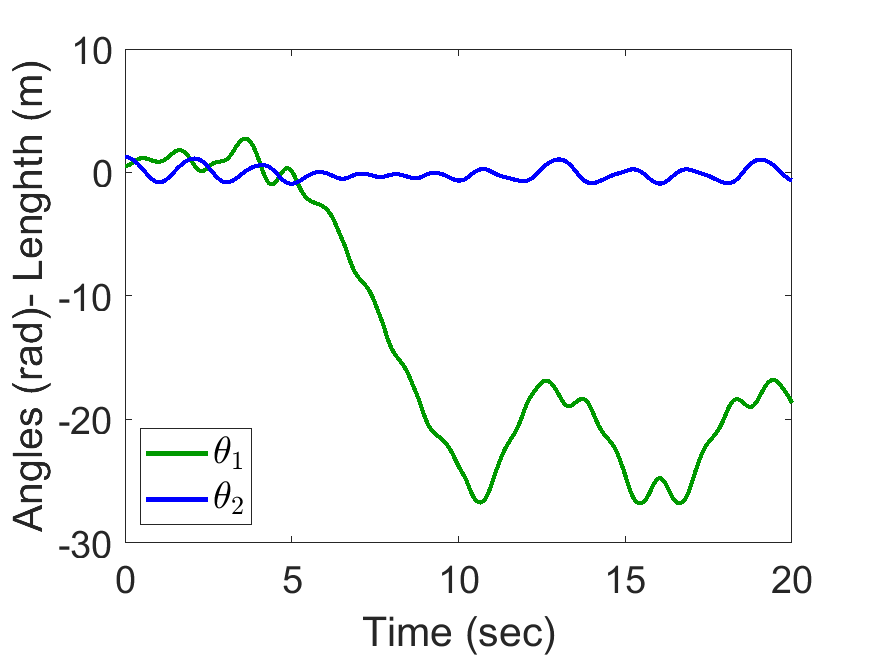
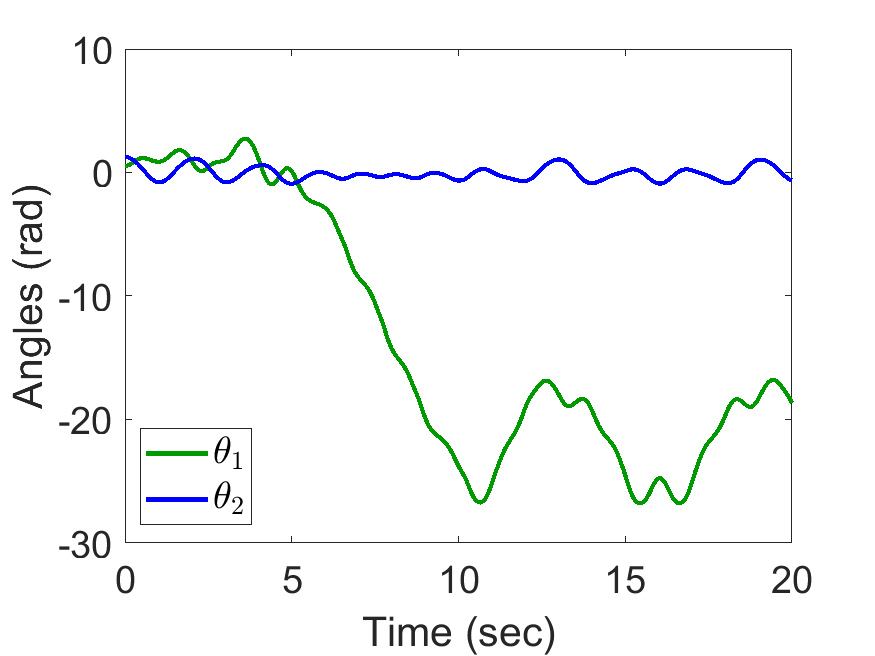
Example7 Added

Changed region(s): [[0.0, 0.0915, 0.0617, 0.5488], [0.0, 0.5793, 0.0617, 0.8232]]

diff --git a/Animator7.m b/Animator7.m
@@ -1,0 +1,121 @@
+function Animator7(Th, tt,Param)
+% Author: Mansour Torabi
+% Email: smtoraabi@ymail.com
+%%
+try
+    filename = 'Pic/Anim7.gif';
+    Hf = figure;
+    set(Hf,'color',[1 1 1]);
+    
+    th0 = Th(1,1); ths = Th(1,2); dx = Th(1,3);
+    R0 = Param(1); r0 = Param(2); l0 = Param(3);
+
+    RotFcn = @(X,th)[cos(th), -sin(th);  sin(th), cos(th)]*X;
+
+    %% Main Param
+
+    R = 3.5; r = r0*R/R0; l = l0*R/R0;
+    R_od = R-r;
+
+    xRo = 5; yRo = 7;
+
+    %% SemiCircle and Disc
+
+    aa = linspace(-pi,0,100);
+    xR = R*cos(aa) + xRo;
+    yR = R*sin(aa) + yRo;
+    plot(xR, yR, 'LineWidth',2, 'Color',[0,0.6,0]);
+    hold on;
+
+    P_disc = [xRo, yRo] + R_od*[sin(th0), -cos(th0)];
+    Hod = plot(P_disc(1), P_disc(2), 'ro');
+    
+    aa = linspace(-pi,pi,100);
+    xr = r*cos(aa) + P_disc(1);
+    yr = r*sin(aa) + P_disc(2);
+
+    Hd = plot(xr, yr, 'LineWidth',5, 'Color','r');
+    
+    % Line inside disc
+    xld = [0, 0]; yld = [0, -r];
+    XXld = [xld;yld];
+    alpha = R_od * th0 / r;
+    Xld = RotFcn(XXld, alpha) + repmat([P_disc(1); P_disc(2)],1,length(xld)); 
+
+    Hld = plot(Xld(1,:), Xld(2,:), 'r','LineWidth',2);
+    %% Spring and Mass
+    Ls = l + dx;
+
+    a = 0.1; t0 = linspace(0,Ls,1e3);
+    x = a*sin(100/Ls*t0); y = - t0;
+    XX = [x;y];    
+    Xrs = RotFcn(XX, ths) + repmat([P_disc(1); P_disc(2)],1,length(t0)); 
+    Hs = line([P_disc(1), Xrs(1,:)],[P_disc(2), Xrs(2,:)],'linewidth',1.2);
+
+    Pm = R_od*[sin(th0), -cos(th0)] + Ls*[sin(ths), -cos(ths)] + [xRo, yRo];
+    Hm = plot(Pm(1), Pm(2), 'O', 'markersize', 12, ...
+        'linewidth', 2, 'color', 'r', 'markerfacecolor', 'r');
+    %% Axis
+
+    box off; axis equal
+    set(gca,'xlim',[0 10],'ylim',[0 9],'xtick',[], 'ytick', [])
+
+    %% Text
+    Txt = sprintf('Time: %0.2f sec', tt(1));
+    Htxt = text(3.5, 9, Txt);
+    set(Htxt, 'fontsize', 16, 'fontweight', 'bold');
+
+    frame = getframe(Hf); im = frame2im(frame); [imind,cm] = rgb2ind(im,256);
+    imwrite(imind,cm,filename,'gif', 'Loopcount',inf, 'DelayTime',0.05);
+
+    for i = 1:size(Th,1)
+        pause(0.00001)
+        th0 = Th(i,1); ths = Th(i,2); dx = Th(i,3);
+        %% SemiCircle and Disc
+        
+        P_disc = [xRo, yRo] + R_od*[sin(th0), -cos(th0)];
+        set(Hod, 'xdata',P_disc(1), 'ydata', P_disc(2))
+        
+        aa = linspace(-pi,pi,100);
+        xr = r*cos(aa) + P_disc(1);
+        yr = r*sin(aa) + P_disc(2);
+        
+        set(Hd, 'xdata',xr, 'ydata', yr);
+        
+        % Line inside disc
+        xld = [0, 0]; yld = [0, -r];
+        XXld = [xld;yld];
+        alpha = R_od * th0 / r;
+        Xld = RotFcn(XXld, alpha) + repmat([P_disc(1); P_disc(2)],1,length(xld)); 
+        set(Hld, 'xdata', Xld(1,:), 'ydata', Xld(2,:));
+        
+        %% Spring and Mass
+        Ls = l + dx;
+
+        a = 0.1; t0 = linspace(0,Ls,1e3);
+        x = a*sin(100/Ls*t0); y = - t0;
+        XX = [x;y];
+        Xrs = RotFcn(XX, ths) + repmat([P_disc(1); P_disc(2)],1,length(t0));
+
+        set(Hs, 'xdata', Xrs(1,:), 'ydata', Xrs(2,:));
+
+        Pm = R_od*[sin(th0), -cos(th0)] + Ls*[sin(ths), -cos(ths)]  + [xRo, yRo];
+        set(Hm,'xdata', Pm(1), 'ydata', Pm(2));
+
+        %%
+
+        Txt = sprintf('Time: %0.2f sec', tt(i));
+        set(Htxt, 'string', Txt);
+
+
+        frame = getframe(Hf); im = frame2im(frame); [imind,cm] = rgb2ind(im,256);
+        imwrite(imind,cm,filename,'gif', 'WriteMode','append', 'DelayTime',0.05);
+
+    end
+catch
+    fprintf('You Forced to stop Animation!!\n\n')
+end
+
+
+
+

diff --git a/EVAL7.m b/EVAL7.m
@@ -4,54 +4,49 @@
 %%
 clc, clear
 
-syms th0 th x Dth0 Dth Dx
-syms k M m l R r g 
+syms th0 ths x Dth0 Dths Dx
+syms R r M J m k l g 
 
 %% Kinetic and Potential Energy
 
-v1x = l1*Dth1*cos(th1) ;
-v1y = -l1*Dth1*sin(th1);
+VoM = (R-r)*[cos(th0), sin(th0)];
+Wd  = -(R-r)*Dth0/r;
 
-v2x = l2*Dth2*cos(th2) ;
-v2y = -l2*Dth2*sin(th2);
+Vm = (R-r)*Dth0*[cos(th0), sin(th0)] + (l+x)*Dths*[cos(ths), sin(ths)] + Dx*[sin(ths), -cos(ths)];
 
-v1t = v1x^2 + v1y^2; 
-v2t = v2x^2 + v2y^2; 
+yM = -(R-r)*cos(th0);
+ym = yM - (l+x)*cos(ths);
 
-T = 1/2*m1*v1t + 1/2*m2*v2t;
+T = 1/2*M*(VoM*VoM.') + 1/2*m*(Vm*Vm.') + 1/2*J*Wd^2;
 
-dXX = l0 + l2*sin(th2) - l1*sin(th1);
-dYY = l1*cos(th1) - l2*cos(th2);
-dx = (dXX^2 + dYY^2)^0.5 - l3;
-
-V1 = -m1*g*(l1*cos(th1)) + 1/2*k*dx^2;
-V2 = -m2*g*(l2*cos(th2));
-V = V1 + V2;
+V = M*g*yM + m*g*ym + 1/2*k*x^2;
 
 L = T - V;
 %%
-q  = [th1, th2];
-Dq = [Dth1, Dth2];
+q  = [th0, ths, x];
+Dq = [Dth0, Dths, Dx];
 tt = linspace(0, 20, 500);
 Eq = LagrangeDynamicEqDeriver(L, q, Dq);
-l0n = 2; l1n = 1; l2n = 1.5; l3n = 2;
-[SS, xx] = DynamicEqSolver(Eq, q, Dq, [k m1 m2 l0 l1 l2 l3 g],...
-                           [20,1,3, l0n, l1n, l2n, l3n, 9.81], tt, [pi/6, pi/2.5, 0, 0]);
+R0 = 5; r0 = 1; l0 = 2; 
+[SS, xx] = DynamicEqSolver(Eq, q, Dq, [R r M J m k l g],...
+                           [R0, r0, 1, 2, 3, 30, l0, 9.81], tt, [pi/3, pi/2, 0, 0, 0, 0]);
 %%             
 figure; 
 plot(tt,xx(:,1),'color',[0,0.6,0],'linewidth',2); 
 hold on; 
 plot(tt,xx(:,2),'b','linewidth',2); 
+plot(tt,xx(:,3),'r','linewidth',2); 
 
-S1 = sprintf('$ \\theta_1$'); 
-S2 = sprintf('$ \\theta_2$');
-H = legend(S1, S2); 
+S1 = sprintf('$ \\theta_0$'); 
+S2 = sprintf('$ \\theta_s$');
+S3 = sprintf('$x_s$');
+H = legend(S1, S2, S3); 
 set(H,'interpreter','latex','fontsize',18,'location','SouthWest');
 
 hx = xlabel('Time (sec)');  set(hx, 'fontsize', 18);
-hy = ylabel('Angles (rad)- Lenghth (m)'); set(hy, 'fontsize', 18);
+hy = ylabel('Angles (rad) - Length (m)'); set(hy, 'fontsize', 18);
 set(gca, 'fontsize', 18);
-saveas(gcf, 'Pic/Ex6.png')
+saveas(gcf, 'Pic/Ex7.png')
 %%
-Animator6(xx(:,1:2), tt, [l0n, l1n, l2n])
+Animator7(xx(:,1:3), tt, [R0, r0, l0])
 

diff --git a/EVAL6.m b/EVAL6.m
@@ -48,7 +48,7 @@ H = legend(S1, S2);
 set(H,'interpreter','latex','fontsize',18,'location','SouthWest');
 
 hx = xlabel('Time (sec)');  set(hx, 'fontsize', 18);
-hy = ylabel('Angles (rad)- Lenghth (m)'); set(hy, 'fontsize', 18);
+hy = ylabel('Angles (rad)'); set(hy, 'fontsize', 18);
 set(gca, 'fontsize', 18);
 saveas(gcf, 'Pic/Ex6.png')
 %%

diff --git a/README.md b/README.md
@@ -3,14 +3,15 @@
 
 Using the above library, one can derive differential equations for any dynamic systems and solve response of the system for a given conditions.
 
-Functinality of the library has been Illustrated by the following examples:
+Functionality of the library has been illustrated by the following examples:
 
 1. Double Pendulum
 2. Spring Pendulum
 3. Pendulum with Spring-loaded support
 4. Double Pendulum with free support
 5. Double Spring Pendulum 
-6. Couple Pendulum
+6. Coupled Pendulum
+7. Spring Pendulum with Rolling base inside a semicircle
 
 ## Example 1: Double Pendulum
 
@@ -379,6 +380,69 @@ Slider Position, Pendulum Anlges:
 		</td>
 		<td width="50%">
 			<img src="../master/Pic/Anim6.gif" />
+		</td>
+  </tr>
+</table>
+
+## Example 7: Spring Pendulum with Rolling base inside a semicircle 
+
+**Problem Definition:**
+<table style="width:100%">
+  <tr>
+		<td width="10%"> </td>
+		<td width="80%">
+			<img src="../master/Pic/Ex7A.png" />
+		</td>
+		<td width="10%"> </td>
+  </tr>
+</table>
+
+**How to solve:**
+
+Just run the ```EVAL7.m``` to **derive equations** and solve intial condition problem:
+
+### Code Usage:
+``` MATLAB
+syms th0 ths x Dth0 Dths Dx
+syms R r M J m k l g 
+
+%% Kinetic and Potential Energy
+
+VoM = (R-r)*[cos(th0), sin(th0)];
+Wd  = -(R-r)*Dth0/r;
+
+Vm = (R-r)*Dth0*[cos(th0), sin(th0)] + (l+x)*Dths*[cos(ths), sin(ths)] + Dx*[sin(ths), -cos(ths)];
+
+yM = -(R-r)*cos(th0);
+ym = yM - (l+x)*cos(ths);
+
+T = 1/2*M*(VoM*VoM.') + 1/2*m*(Vm*Vm.') + 1/2*J*Wd^2;
+
+V = M*g*yM + m*g*ym + 1/2*k*x^2;
+
+L = T - V;
+%%
+q  = [th0, ths, x];
+Dq = [Dth0, Dths, Dx];
+tt = linspace(0, 20, 500);
+Eq = LagrangeDynamicEqDeriver(L, q, Dq);
+R0 = 5; r0 = 1; l0 = 2; 
+[SS, xx] = DynamicEqSolver(Eq, q, Dq, [R r M J m k l g],...
+                           [R0, r0, 1, 2, 3, 30, l0, 9.81], tt, [pi/3, pi/2, 0, 0, 0, 0]);
+
+```
+Slider Position, Pendulum Anlges:
+<table style="width:100%">
+   <tr>
+        <th>Angles of spring length:</th>
+		<th>Animated Response:</th>
+  </tr>
+  <tr>
+		<td width="50%">
+			<img src="../master/Pic/Ex7.png" />
+		</td>
+		<td width="50%">
+			<img src="../master/Pic/Anim7.gif" />
 		</td>
   </tr>
 </table>
